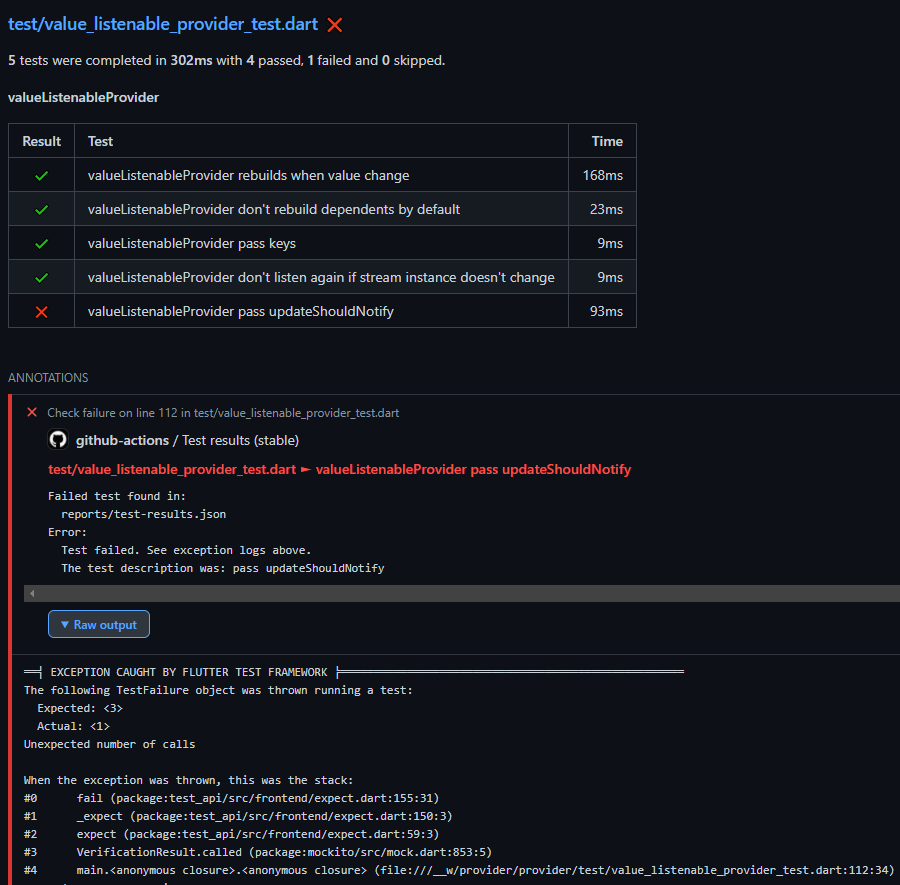
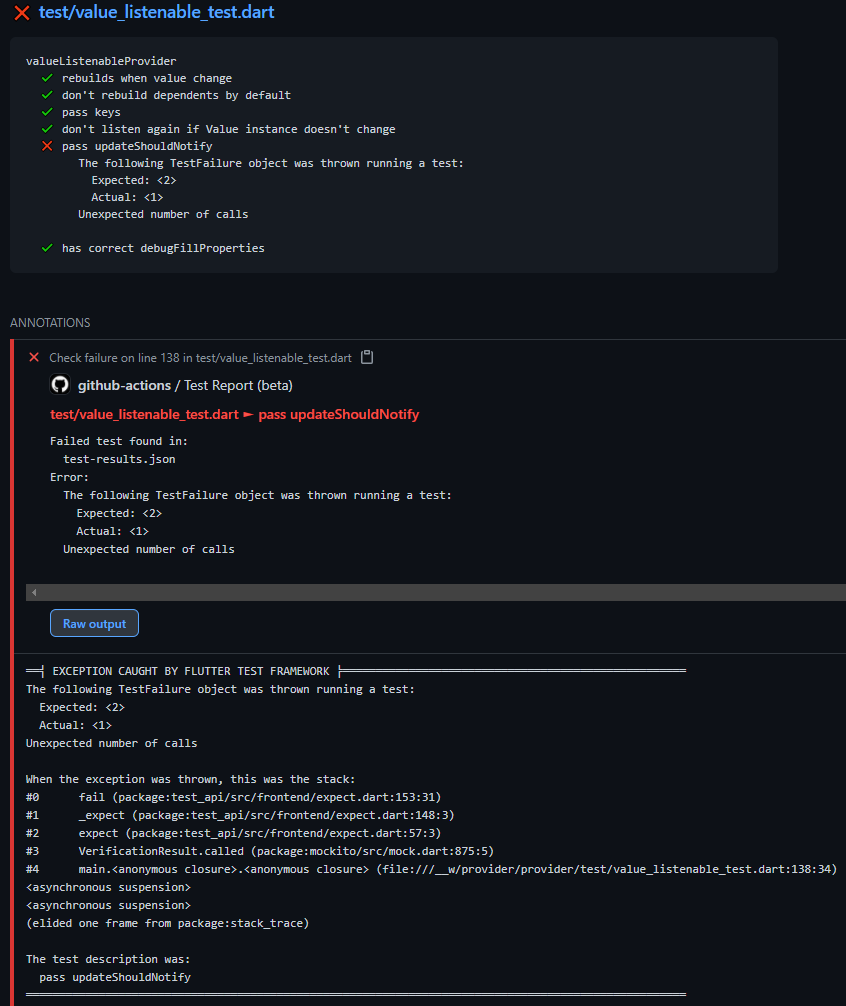
Update screenshots for README

Changed region(s): [[0.0, 0.0, 1.0, 1.0], [0.6454, 0.1525, 0.7069, 0.2441], [0.6454, 0.2746, 0.7069, 0.3661]]

diff --git a/README.md b/README.md
@@ -9,7 +9,7 @@ This [Github Action](https://github.com/features/actions) displays test results 
 ✔ Provides final `conclusion` and counts of `passed`, `failed` and `skipped` tests as output parameters
 
 **How it looks:**
-|![](assets/fluent-validation-report.png)|![](assets/provider-error-summary.png)|![](assets/provider-error-details.png)|![](assets/provider-groups.png)|
+|![](assets/fluent-validation-report.png)|![](assets/provider-error-summary.png)|![](assets/provider-error-details.png)|![](assets/mocha-groups.png)|
 |:--:|:--:|:--:|:--:|
 
 **Supported languages / frameworks:**
